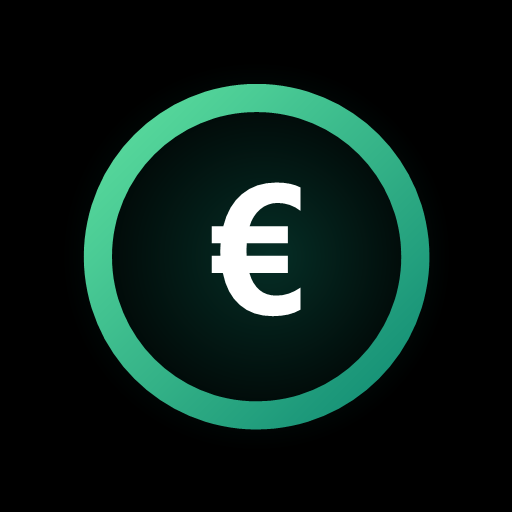
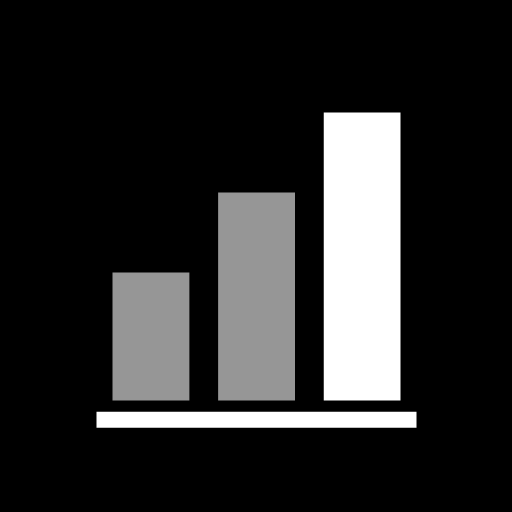
Ícono: gráfica blanca original sobre fondo negro

diff --git a/sw.js b/sw.js
@@ -1,6 +1,6 @@
 // Guarda la app en caché para que funcione sin internet.
 // Sube VERSION cada vez que cambies index.html para que el iPhone tome la nueva versión.
-const VERSION = 'finanzas-v7';
+const VERSION = 'finanzas-v8';
 const FILES = ['./', './index.html', './manifest.webmanifest', './icons/icon-180.png', './icons/icon-192.png', './icons/icon-512.png'];
 
 self.addEventListener('install', e => {
